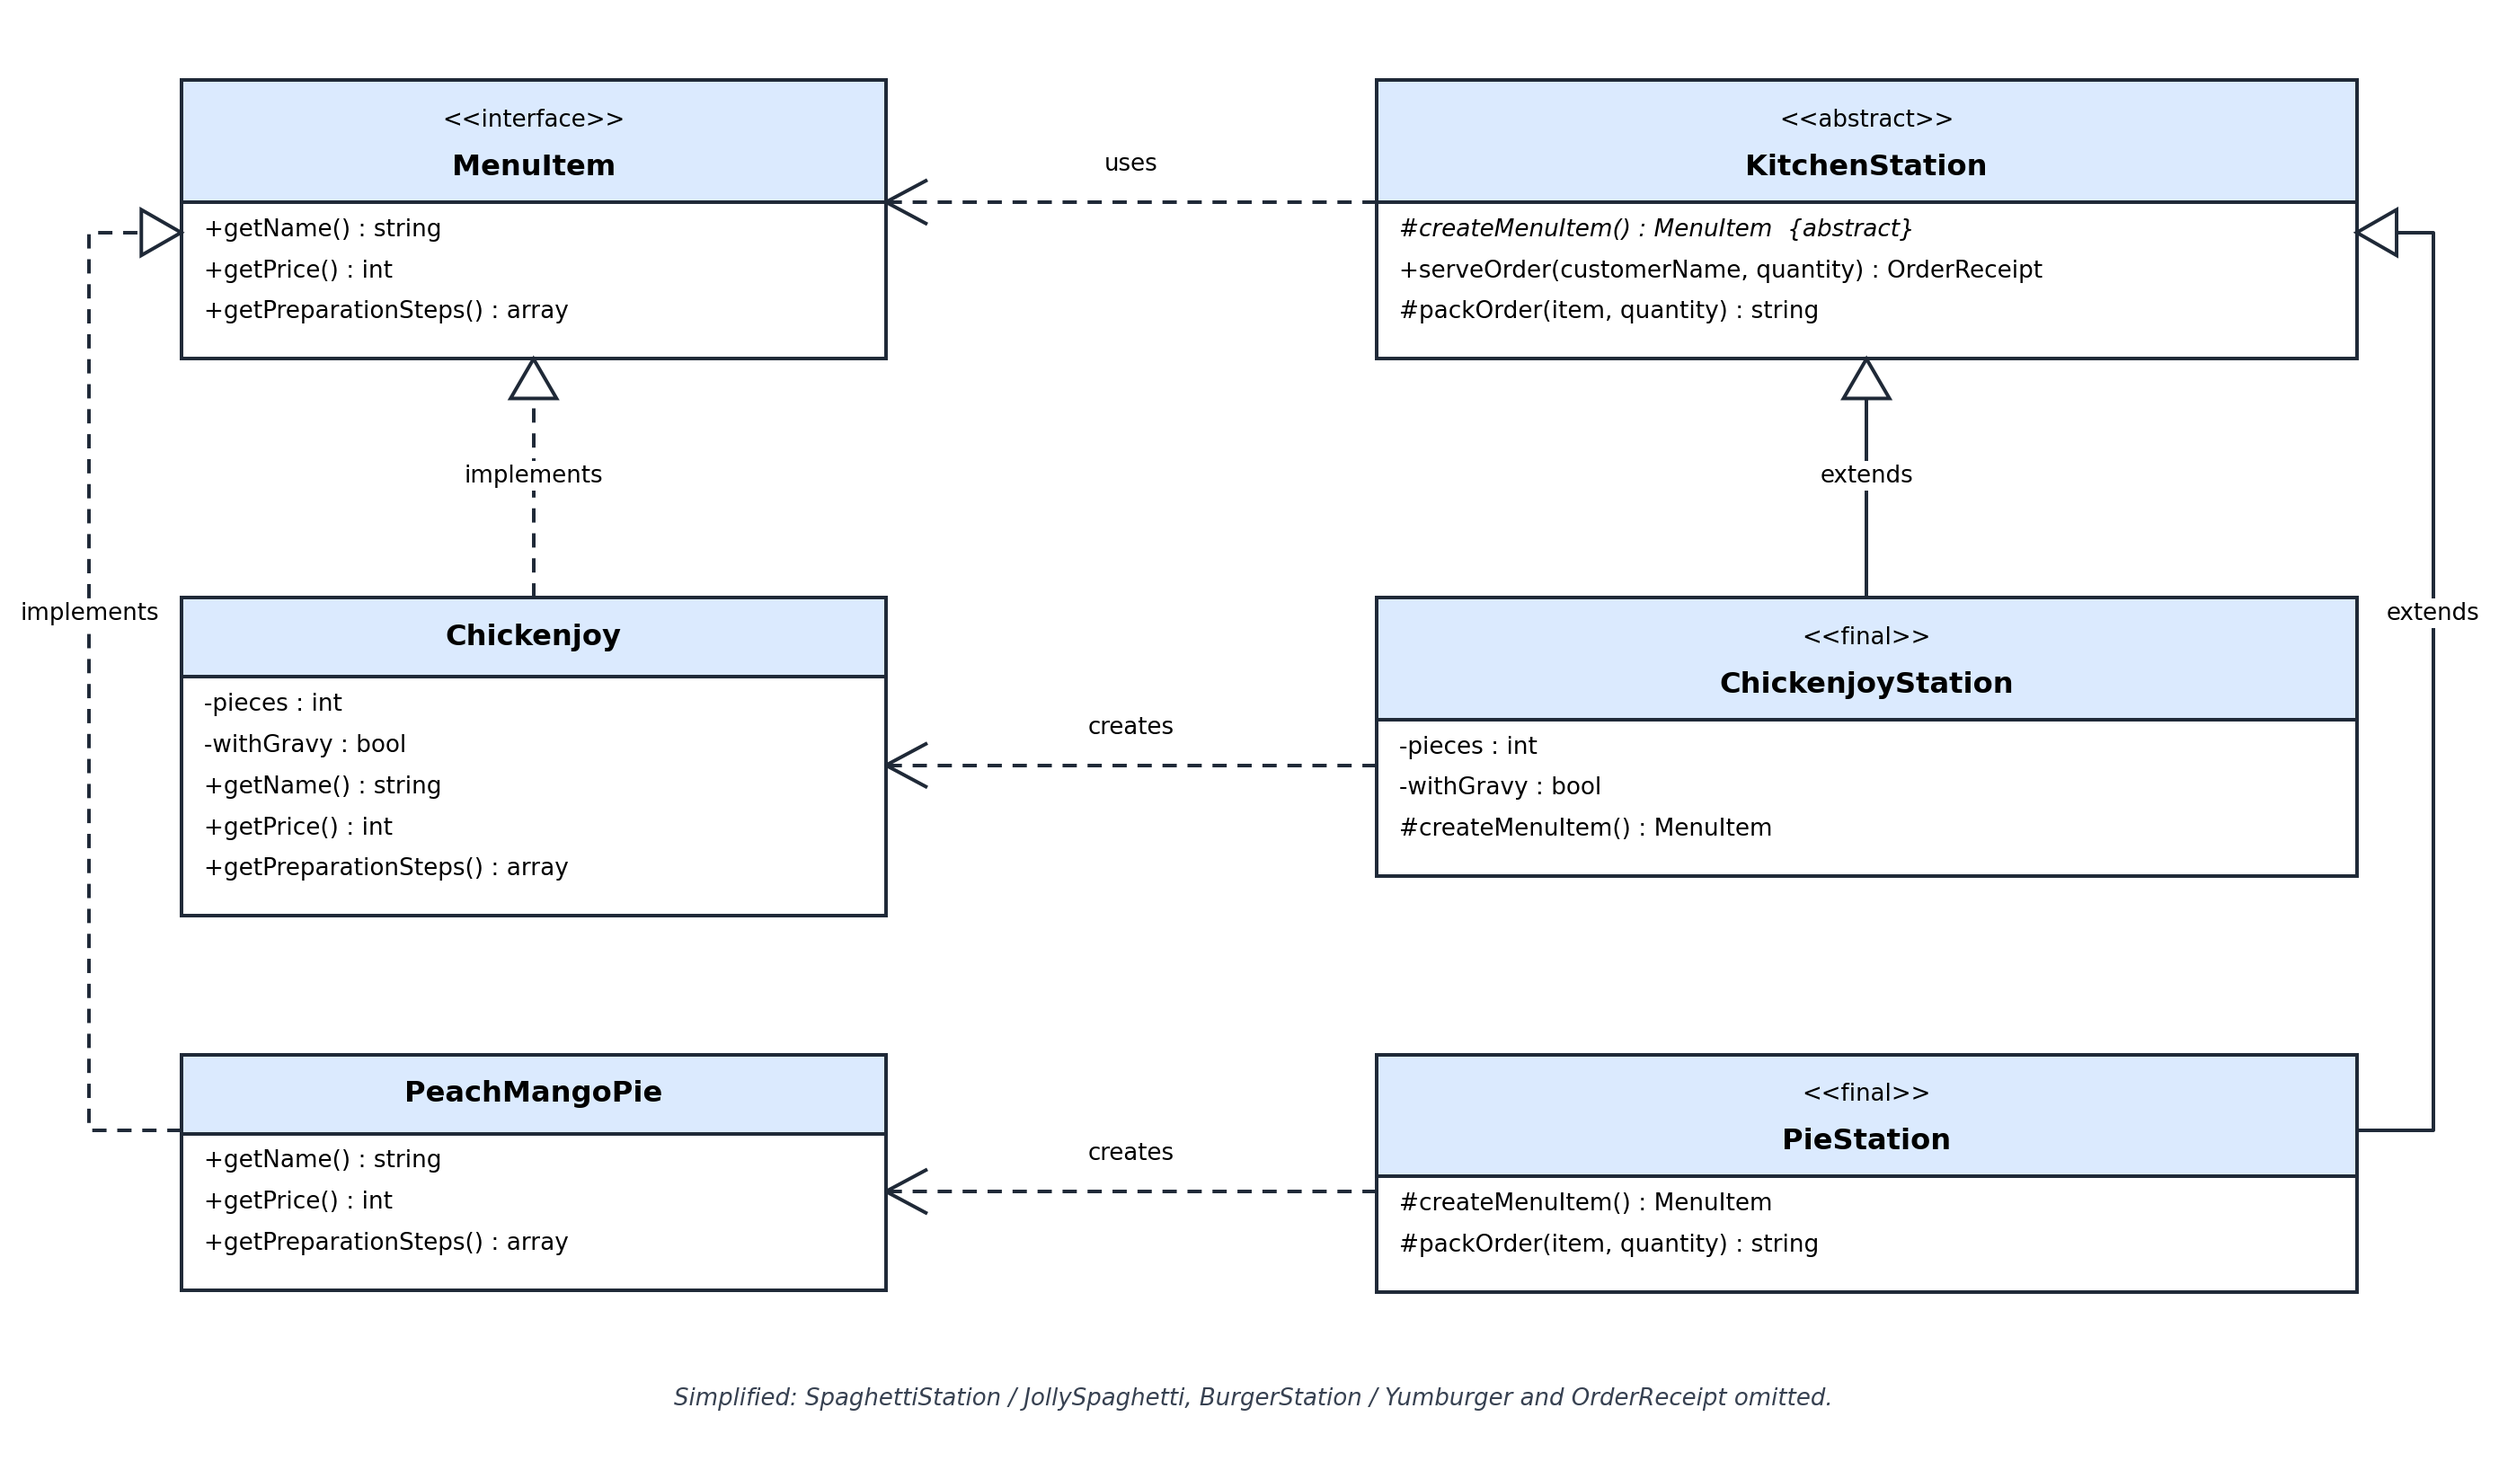
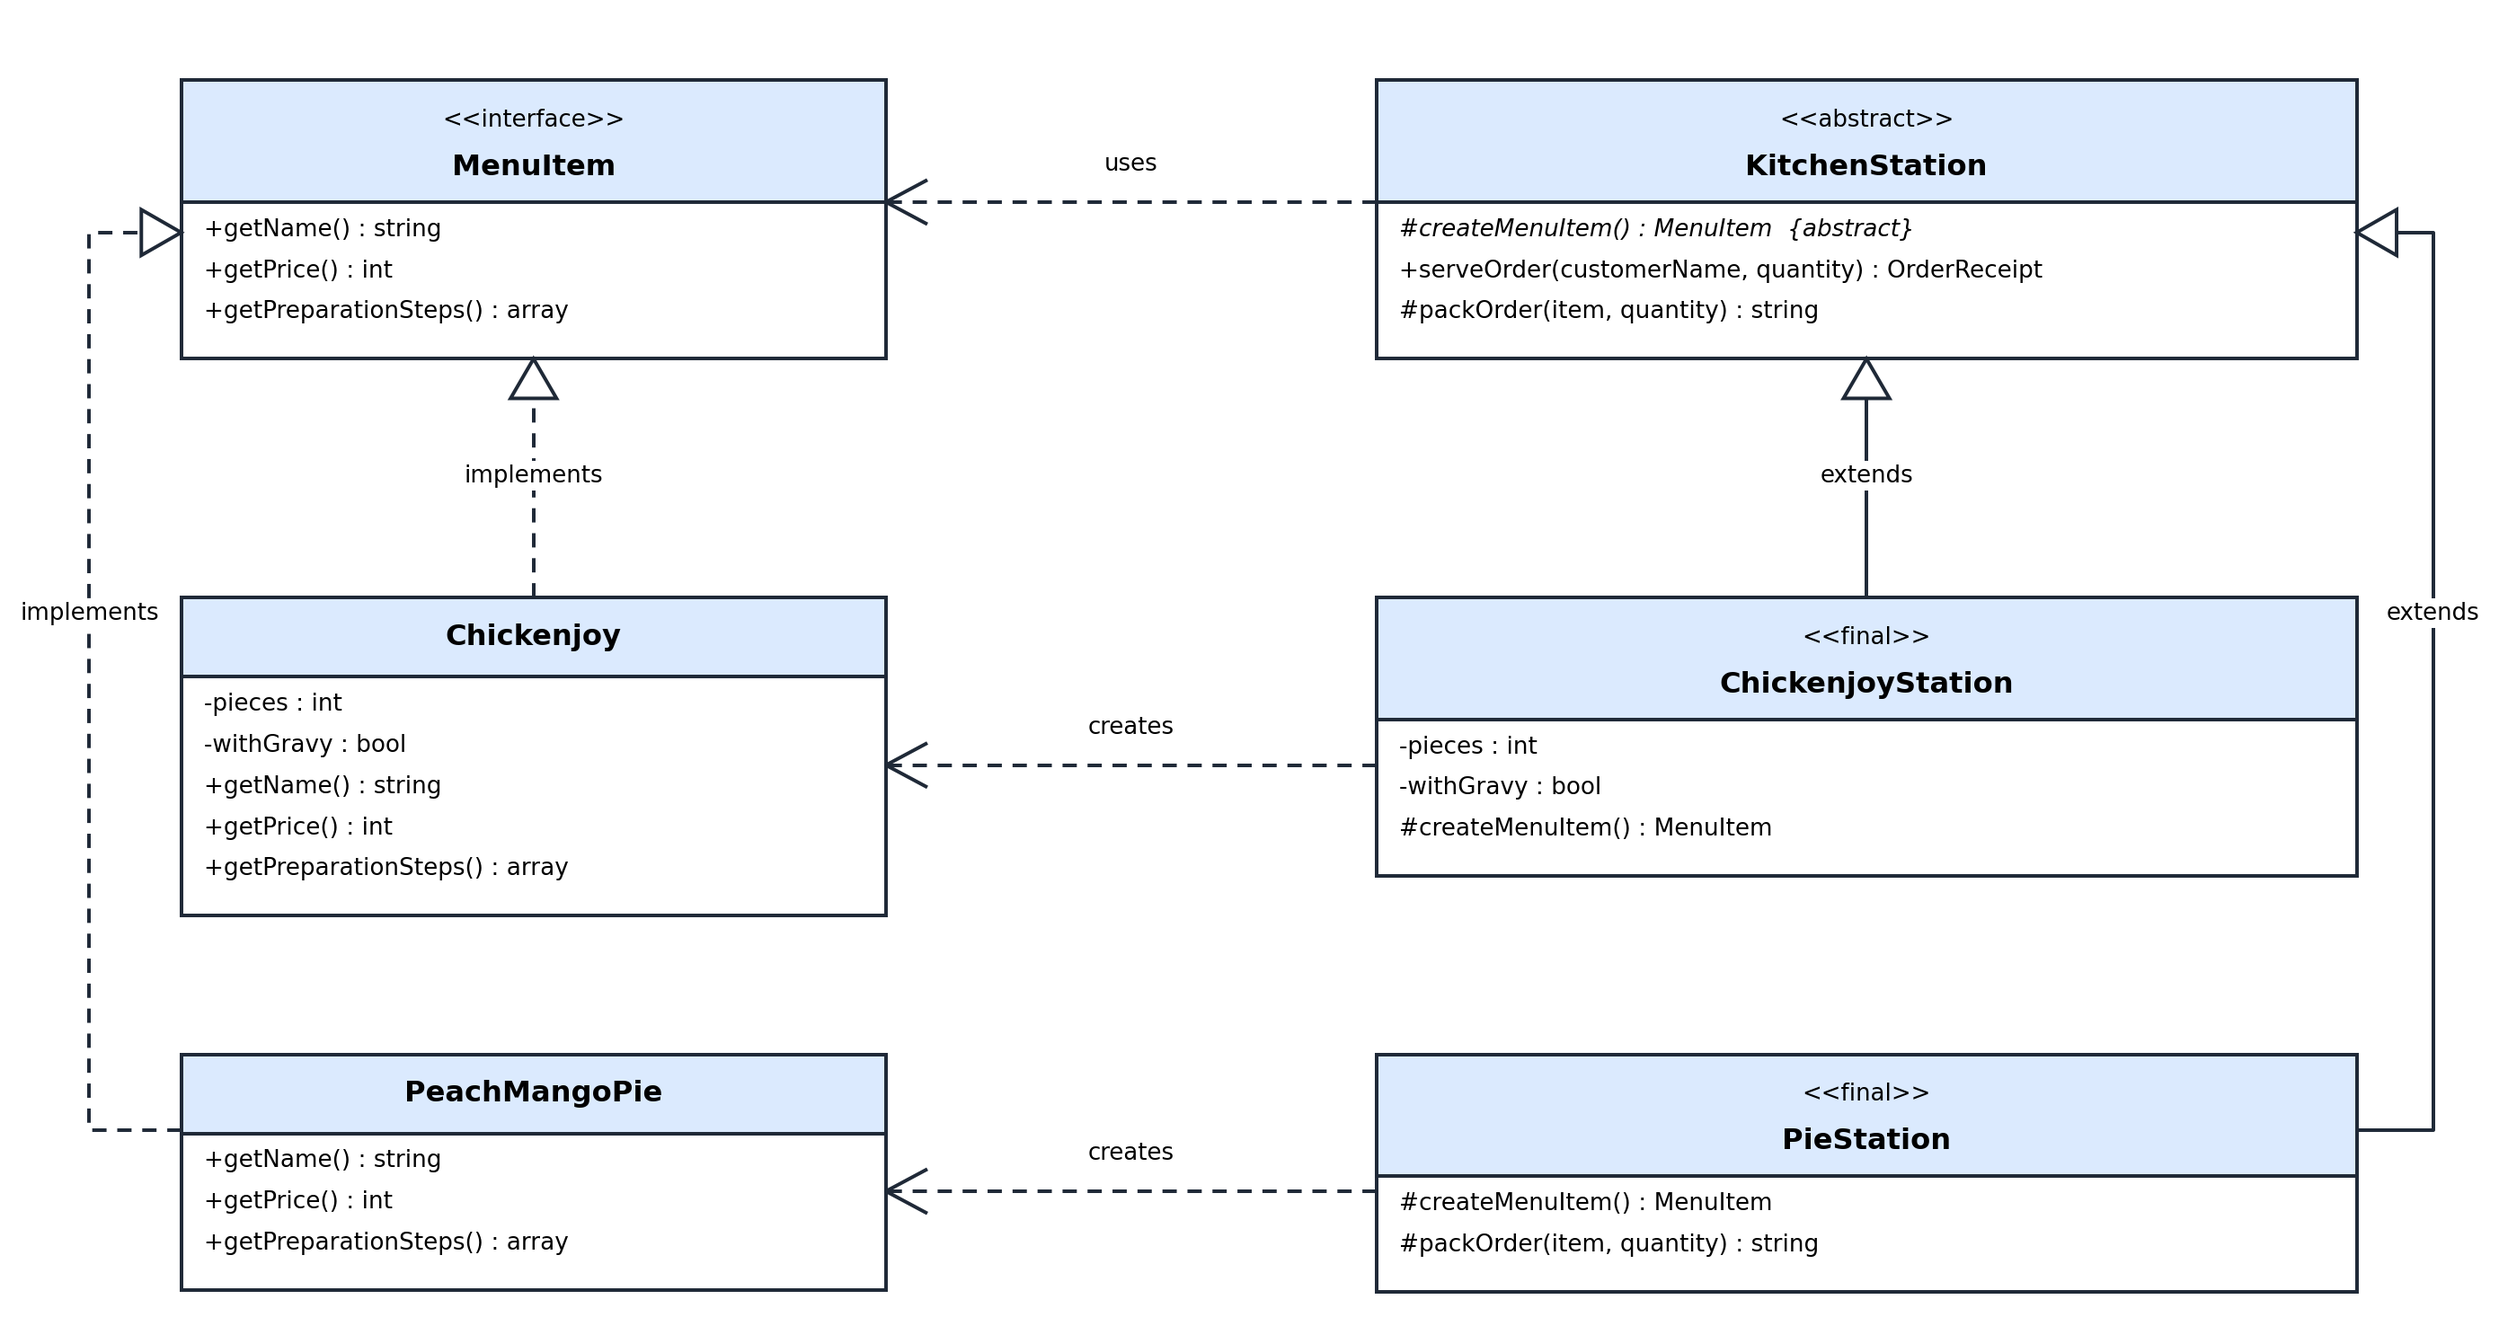
Clean up code comments and streamline header docblocks

diff --git a/src/KitchenStation.php b/src/KitchenStation.php
@@ -1,11 +1,6 @@
 <?php
 
 /**
- * KitchenStation - Abstract Creator (Factory Method Pattern)
- *
- * Defines the order workflow. Subclasses decide WHICH MenuItem gets created
- * by overriding the factory method createMenuItem().
- *
  * Name:    Ana Marietta Amor B. Reyes
  * Section: BSIT 3-A
  * Subject: IPT10 - Design Patterns in PHP
@@ -17,14 +12,9 @@ namespace Ipt10\JollibeeOrders;
 
 abstract class KitchenStation
 {
-    /**
-     * THE FACTORY METHOD -- subclasses override this to return their product.
-     */
     abstract protected function createMenuItem(): MenuItem;
 
     /**
-     * Template workflow: create the item, collect info, pack, and return a receipt.
-     *
      * @throws \InvalidArgumentException if quantity is less than 1
      */
     public function serveOrder(string $customerName, int $quantity): OrderReceipt
@@ -53,9 +43,6 @@ abstract class KitchenStation
         );
     }
 
-    /**
-     * Hook -- subclasses MAY override to customize packaging.
-     */
     protected function packOrder(MenuItem $item, int $quantity): string
     {
         return 'Packed ' . $quantity . ' x ' . $item->getName() . ' in a paper bag';

diff --git a/examples/demo.php b/examples/demo.php
@@ -1,8 +1,6 @@
 <?php
 
 /**
- * demo.php - Client code for the Factory Method Pattern demo
- *
  * Name:    Ana Marietta Amor B. Reyes
  * Section: BSIT 3-A
  * Subject: IPT10 - Design Patterns in PHP
@@ -17,11 +15,6 @@ use Ipt10\JollibeeOrders\ChickenjoyStation;
 use Ipt10\JollibeeOrders\KitchenStation;
 use Ipt10\JollibeeOrders\PieStation;
 use Ipt10\JollibeeOrders\SpaghettiStation;
-
-// ---------------------------------------------------------------
-// Build an array of KitchenStation objects (client depends only on
-// the abstract KitchenStation type, never on concrete products).
-// ---------------------------------------------------------------
 
 /** @var KitchenStation[] $stations */
 $stations = [

diff --git a/tests/KitchenStationTest.php b/tests/KitchenStationTest.php
@@ -1,8 +1,6 @@
 <?php
 
 /**
- * KitchenStationTest - PHPUnit tests for the Factory Method Pattern
- *
  * Name:    Ana Marietta Amor B. Reyes
  * Section: BSIT 3-A
  * Subject: IPT10 - Design Patterns in PHP
@@ -93,10 +91,7 @@ final class KitchenStationTest extends TestCase
         $pieStation = new PieStation();
         $receipt    = $pieStation->serveOrder('Ana', 1);
 
-        // PieStation overrides packOrder to use "paper sleeve"
         $this->assertStringContainsString('paper sleeve', $receipt->packaging);
-
-        // Verify it differs from the default "paper bag" text
         $this->assertStringNotContainsString('paper bag', $receipt->packaging);
     }
 

diff --git a/tests/Support/FakeKitchenStation.php b/tests/Support/FakeKitchenStation.php
@@ -1,11 +1,6 @@
 <?php
 
 /**
- * FakeKitchenStation - Test double that extends KitchenStation
- *
- * Returns an injected MenuItem and counts how many times
- * createMenuItem() was called.
- *
  * Name:    Ana Marietta Amor B. Reyes
  * Section: BSIT 3-A
  * Subject: IPT10 - Design Patterns in PHP

diff --git a/src/PeachMangoPie.php b/src/PeachMangoPie.php
@@ -1,10 +1,6 @@
 <?php
 
 /**
- * PeachMangoPie - Concrete Product (Factory Method Pattern)
- *
- * Added last to prove extensibility: no changes needed in KitchenStation.
- *
  * Name:    Ana Marietta Amor B. Reyes
  * Section: BSIT 3-A
  * Subject: IPT10 - Design Patterns in PHP

diff --git a/src/PieStation.php b/src/PieStation.php
@@ -1,10 +1,6 @@
 <?php
 
 /**
- * PieStation - Concrete Creator (Factory Method Pattern)
- *
- * Overrides packOrder() to demonstrate the hook mechanism.
- *
  * Name:    Ana Marietta Amor B. Reyes
  * Section: BSIT 3-A
  * Subject: IPT10 - Design Patterns in PHP

diff --git a/src/OrderReceipt.php b/src/OrderReceipt.php
@@ -1,8 +1,6 @@
 <?php
 
 /**
- * OrderReceipt - Value Object returned by KitchenStation::serveOrder()
- *
  * Name:    Ana Marietta Amor B. Reyes
  * Section: BSIT 3-A
  * Subject: IPT10 - Design Patterns in PHP

diff --git a/src/ChickenjoyStation.php b/src/ChickenjoyStation.php
@@ -1,8 +1,6 @@
 <?php
 
 /**
- * ChickenjoyStation - Concrete Creator (Factory Method Pattern)
- *
  * Name:    Ana Marietta Amor B. Reyes
  * Section: BSIT 3-A
  * Subject: IPT10 - Design Patterns in PHP

diff --git a/src/SpaghettiStation.php b/src/SpaghettiStation.php
@@ -1,8 +1,6 @@
 <?php
 
 /**
- * SpaghettiStation - Concrete Creator (Factory Method Pattern)
- *
  * Name:    Ana Marietta Amor B. Reyes
  * Section: BSIT 3-A
  * Subject: IPT10 - Design Patterns in PHP

diff --git a/src/JollySpaghetti.php b/src/JollySpaghetti.php
@@ -1,8 +1,6 @@
 <?php
 
 /**
- * JollySpaghetti - Concrete Product (Factory Method Pattern)
- *
  * Name:    Ana Marietta Amor B. Reyes
  * Section: BSIT 3-A
  * Subject: IPT10 - Design Patterns in PHP

diff --git a/src/BurgerStation.php b/src/BurgerStation.php
@@ -1,8 +1,6 @@
 <?php
 
 /**
- * BurgerStation - Concrete Creator (Factory Method Pattern)
- *
  * Name:    Ana Marietta Amor B. Reyes
  * Section: BSIT 3-A
  * Subject: IPT10 - Design Patterns in PHP

diff --git a/src/Chickenjoy.php b/src/Chickenjoy.php
@@ -1,8 +1,6 @@
 <?php
 
 /**
- * Chickenjoy - Concrete Product (Factory Method Pattern)
- *
  * Name:    Ana Marietta Amor B. Reyes
  * Section: BSIT 3-A
  * Subject: IPT10 - Design Patterns in PHP
